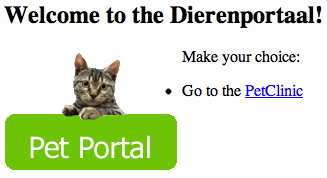
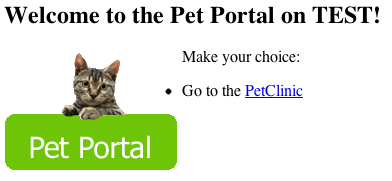
Updated dictionary. Changed petportal-1.0 screenshot.

diff --git a/files/petportal-demo.py b/files/petportal-demo.py
@@ -177,7 +177,7 @@ environmentsList.append(create('Environments/Dictionaries/PetPortal-Dict','udm.D
   {'entries':{'APACHE_PORT':'8000','APACHE_HOST':'localhost','APPSERVER_HOST':'localhost','APPSERVER_PORT':'8080',
   'DB_URL':'jdbc:mysql:@localhost:mysql', 'PETPORTAL_TITLE':'The Pet Portal (C) Site','DB_USERNAME':'petportal','DB_PASSWORD':'petportal','PETCLINIC_CONTEXT_ROOT':'petclinic'}}))
 environmentsList.append(create('Environments/Dictionaries/PetPortal-Dict-TEST','udm.Dictionary',
-  {'entries':{'APACHE_PORT':'80','APACHE_HOST':'localhost','APPSERVER_HOST':'localhost','APPSERVER_PORT':'80',
+  {'entries':{'APACHE_PORT':'8000','APACHE_HOST':'localhost','APPSERVER_HOST':'localhost','APPSERVER_PORT':'8080',
   'DB_URL':'jdbc:mysql:@localhost:mysql', 'PETPORTAL_TITLE':'Pet Portal on TEST','DB_USERNAME':'petportal','DB_PASSWORD':'petportal','PETCLINIC_CONTEXT_ROOT':'petclinic'}}))
 save(environmentsList)
 
